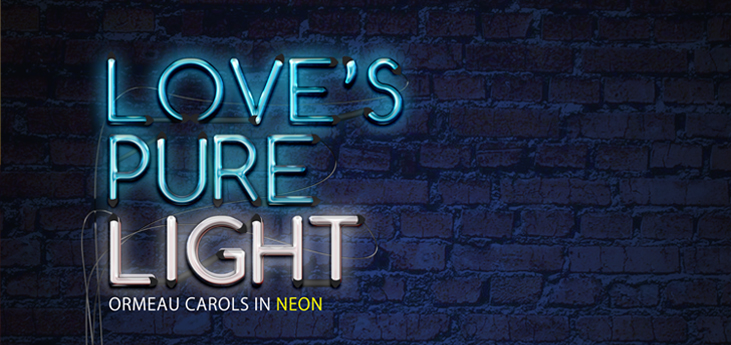
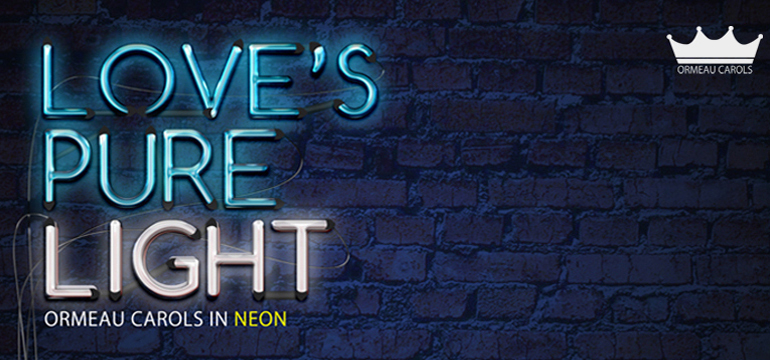
Changed the look

diff --git a/OrmeauCarols/Content/Site.css b/OrmeauCarols/Content/Site.css
@@ -33,9 +33,9 @@ table { border-collapse: collapse; border-spacing: 0; }
 hr { display: block; height: 1px; border: 0; border-top: 1px solid #ccc; margin: 1em 0; padding: 0; }
 input, select { vertical-align: middle; }
 
-body { font:13px/1.231 Adobe Caslon Pro; *font-size:small; }
-select, input, textarea, button { font:99% sans-serif; }
-pre, code, kbd, samp { font-family: monospace, sans-serif; }
+body { font:13px/1.231 avant garde; *font-size:small; }
+select, input, textarea, button { font:99% avant garde; }
+pre, code, kbd, samp { font-family: monospace, avant garde; }
 
 html { overflow-y: scroll; }
 a:hover, a:active { outline: none; }
@@ -69,7 +69,7 @@ a:link { -webkit-tap-highlight-color: #FF5E99; }
 button {  width: auto; overflow: visible; }
 .ie7 img { -ms-interpolation-mode: bicubic; }
 
-body, select, input, textarea { color: #000000; }
+body, select, input, textarea { color: #ffffff; }
 h1, h2, h3, h4, h5, h6 { font-weight: bold; }
 a, a:active, a:visited { color: #f2cf79; }
 a:hover { color: #c89006; }
@@ -85,7 +85,7 @@ body
 {
     background: url(images/background.jpg) no-repeat top center fixed;
     background-color: black;
-    font-family: 'PT Mono', Adobe Caslon Pro;
+    font-family: 'PT Mono', avant garde;
     color: #000000;
     font-size: 0.8em;
     text-align: center;
@@ -158,7 +158,7 @@ div#right-col div.panel
 
 div#right-col div.twitter-panel
 {
-    background: url(images/twitterpanel.jpg) no-repeat top center;
+    background: url(images/TwitterPannel2.jpg) no-repeat top center;
     width: 253px;
     height: 172px;
     overflow-y: auto;
@@ -171,6 +171,15 @@ div#right-col div.facebook-panel
     height: 172px;
     overflow-y: auto;
 }
+
+div#right-col div.social-panel
+{
+    background: url(images/socialpanelheader.jpg) no-repeat top center;
+    width: 253px;
+    height: 62px;
+    overflow-y: auto;
+}
+
 
 div#right-col div.sponsor-panel
 {
